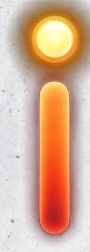
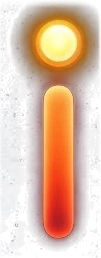
fix(frontend): clean letter backgrounds, uncut b, orbits in front
- Re-extract the Stitch letter/ring assets with saturation keying (keep the warm
  glow, drop the sheet's gray JPEG noise) + edge feather, and widen the b crop so
  its bowl is no longer clipped.
- Render all logo images unoptimized so next/image can't reintroduce a background
  matte — letters now sit clean on the dark hero.
- Layer the Planet Ring (around O) and Grand Swoosh (over the last letters) in
  front of the letters (z-index), drawn slowly via the conic reveal.

diff --git a/apps/orbit-frontend/src/components/marketing/hero-logo-title.tsx b/apps/orbit-frontend/src/components/marketing/hero-logo-title.tsx
@@ -5,20 +5,20 @@ import { motion, useReducedMotion } from 'motion/react';
 
 /**
  * Hero title — the Orbit wordmark assembled from the Stitch "Logo Asset
- * Decomposition" pieces (the separate O/r/b/i/t letter assets). On first load
- * each letter reveals one-by-one (blur + fade + rise) and, while it appears, the
- * Planet Ring asset orbits around that letter, then fades — leaving the clean
- * wordmark. Reduced-motion renders the assembled wordmark with no orbits.
- *
- * left/top/width/height are % of the wordmark box (587 x 201), computed from the
- * baseline-aligned assembly of the extracted glyphs.
+ * Decomposition" pieces (separate O/r/b/i/t letters, saturation-keyed off the
+ * sheet). Each letter reveals one-by-one (blur + fade + rise). Two orbits from
+ * the sheet are then drawn slowly and softly, layered in front of the letters:
+ * the Planet Ring around the O, and the Grand Orbital Swoosh over the last
+ * letters. Images are `unoptimized` so their transparency stays pristine.
+ * Reduced-motion renders it fully assembled. left/top/width/height are % of the
+ * wordmark box (560 x 205).
  */
 const LETTERS = [
-  { src: '/orbit2-o.webp', left: 0, top: 0, width: 30.15, height: 97.0, w: 177, h: 195 },
-  { src: '/orbit2-r.webp', left: 32.2, top: 17.4, width: 15.16, height: 82.1, w: 89, h: 165 },
-  { src: '/orbit2-b.webp', left: 45.14, top: 8.46, width: 24.19, height: 89.05, w: 142, h: 179 },
-  { src: '/orbit2-i.webp', left: 69.68, top: 12.44, width: 10.73, height: 87.56, w: 63, h: 176 },
-  { src: '/orbit2-t.webp', left: 81.77, top: 16.92, width: 18.23, height: 82.09, w: 107, h: 165 },
+  { src: '/orbit2-o.webp', left: 0, top: 0, width: 33.75, height: 99.51, w: 306, h: 331 },
+  { src: '/orbit2-r.webp', left: 33.93, top: 20.98, width: 16.61, height: 79.02, w: 133, h: 232 },
+  { src: '/orbit2-b.webp', left: 42.32, top: 6.83, width: 29.82, height: 92.2, w: 239, h: 271 },
+  { src: '/orbit2-i.webp', left: 70.36, top: 12.2, width: 12.5, height: 87.8, w: 101, h: 258 },
+  { src: '/orbit2-t.webp', left: 79.46, top: 17.07, width: 20.54, height: 81.46, w: 165, h: 240 },
 ];
 
 export function HeroLogoTitle() {
@@ -26,76 +26,123 @@ export function HeroLogoTitle() {
 
   return (
     <h1 className="orbit-logo relative mb-6">
+      <style>{ORBIT_CSS}</style>
       <span className="sr-only">Orbit</span>
       <span
         aria-hidden
         className="relative block select-none"
         style={{
           width: 'clamp(300px, 48vw, 560px)',
-          aspectRatio: '587 / 201',
+          aspectRatio: '560 / 205',
           filter: 'drop-shadow(0 8px 30px rgba(255, 86, 51, 0.25))',
         }}
       >
-        {LETTERS.map((L, i) => {
-          const start = 0.15 + i * 0.18;
-          return (
-            <span
-              key={i}
-              className="absolute"
-              style={{
-                left: `${L.left}%`,
-                top: `${L.top}%`,
-                width: `${L.width}%`,
-                height: `${L.height}%`,
-                perspective: '600px',
-              }}
-            >
-              {/* Planet-Ring orbit that surrounds + turns around this letter. */}
-              {!reduce && (
-                <motion.img
-                  src="/orbit2-ring.webp"
-                  alt=""
-                  aria-hidden
-                  className="pointer-events-none absolute left-1/2 top-1/2 z-0 h-auto max-w-none"
-                  style={{ width: '175%', x: '-50%', y: '-50%', transformOrigin: 'center' }}
-                  initial={{ opacity: 0, rotateY: -90 }}
-                  animate={{ opacity: [0, 0.9, 0.85, 0], rotateY: 200 }}
-                  transition={{
-                    duration: 1.5,
-                    delay: start,
-                    times: [0, 0.25, 0.65, 1],
-                    ease: 'easeInOut',
-                  }}
-                />
-              )}
+        {/* Letters — reveal one-by-one, behind the orbits. */}
+        {LETTERS.map((L, i) => (
+          <motion.span
+            key={i}
+            className="absolute z-10 block"
+            style={{
+              left: `${L.left}%`,
+              top: `${L.top}%`,
+              width: `${L.width}%`,
+              height: `${L.height}%`,
+            }}
+            initial={
+              reduce ? false : { opacity: 0, y: '-30%', filter: 'blur(10px)' }
+            }
+            animate={{ opacity: 1, y: '0%', filter: 'blur(0px)' }}
+            transition={
+              reduce
+                ? { duration: 0 }
+                : { duration: 0.6, delay: 0.15 + i * 0.16, ease: [0.22, 1, 0.36, 1] }
+            }
+          >
+            <Image
+              src={L.src}
+              alt=""
+              aria-hidden
+              width={L.w}
+              height={L.h}
+              priority
+              unoptimized
+              className="h-full w-full object-fill"
+            />
+          </motion.span>
+        ))}
 
-              {/* The letter itself — reveals with a blur/fade/rise. */}
-              <motion.span
-                className="absolute inset-0 z-10 block"
-                initial={
-                  reduce ? false : { opacity: 0, y: '-30%', filter: 'blur(10px)' }
-                }
-                animate={{ opacity: 1, y: '0%', filter: 'blur(0px)' }}
-                transition={
-                  reduce
-                    ? { duration: 0 }
-                    : { duration: 0.6, delay: start + 0.15, ease: [0.22, 1, 0.36, 1] }
-                }
-              >
-                <Image
-                  src={L.src}
-                  alt=""
-                  aria-hidden
-                  width={L.w}
-                  height={L.h}
-                  priority
-                  className="h-full w-full object-fill"
-                />
-              </motion.span>
-            </span>
-          );
-        })}
+        {/* Planet Ring — drawn slowly around the O, in front. */}
+        <div
+          className={`orbit-draw absolute ${reduce ? '' : 'orbit-animate'}`}
+          style={{
+            left: '17%',
+            top: '49%',
+            width: '52%',
+            zIndex: 20,
+            transform: 'translate(-50%, -50%)',
+            mixBlendMode: 'screen',
+            animationDelay: '0.5s',
+          }}
+        >
+          <Image
+            src="/orbit2-ring.webp"
+            alt=""
+            aria-hidden
+            width={371}
+            height={277}
+            unoptimized
+            className="h-auto w-full"
+          />
+        </div>
+
+        {/* Grand Orbital Swoosh — drawn slowly over the last letters, in front. */}
+        <div
+          className={`orbit-draw absolute ${reduce ? '' : 'orbit-animate'}`}
+          style={{
+            left: '74%',
+            top: '50%',
+            width: '64%',
+            zIndex: 20,
+            transform: 'translate(-50%, -50%)',
+            mixBlendMode: 'screen',
+            animationDelay: '1.25s',
+          }}
+        >
+          <Image
+            src="/orbit2-swoosh.webp"
+            alt=""
+            aria-hidden
+            width={465}
+            height={312}
+            unoptimized
+            className="h-auto w-full"
+          />
+        </div>
       </span>
     </h1>
   );
 }
+
+const ORBIT_CSS = `
+@property --orbit-draw {
+  syntax: '<percentage>';
+  inherits: false;
+  initial-value: 100%;
+}
+.orbit-draw {
+  --orbit-draw: 100%;
+  -webkit-mask-image: conic-gradient(from -90deg, #000 var(--orbit-draw), transparent 0);
+  mask-image: conic-gradient(from -90deg, #000 var(--orbit-draw), transparent 0);
+}
+.orbit-animate {
+  animation: orbit-draw-kf 2.6s cubic-bezier(0.33, 0, 0.2, 1) both;
+}
+@keyframes orbit-draw-kf {
+  0% { --orbit-draw: 0%; opacity: 0; }
+  12% { opacity: 1; }
+  100% { --orbit-draw: 100%; opacity: 1; }
+}
+@media (prefers-reduced-motion: reduce) {
+  .orbit-animate { animation: none; --orbit-draw: 100%; }
+}
+`;
